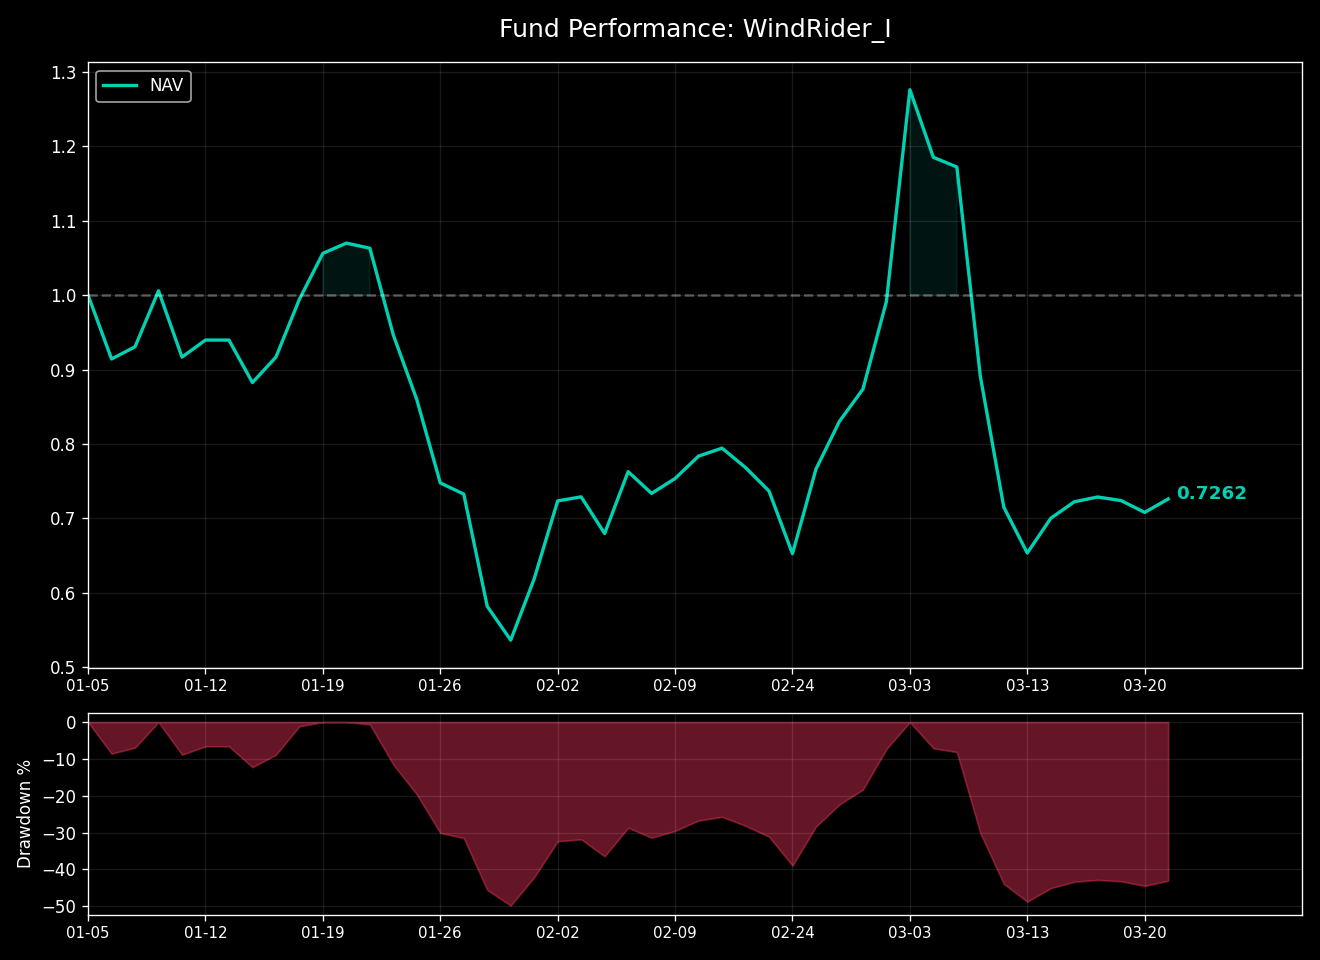
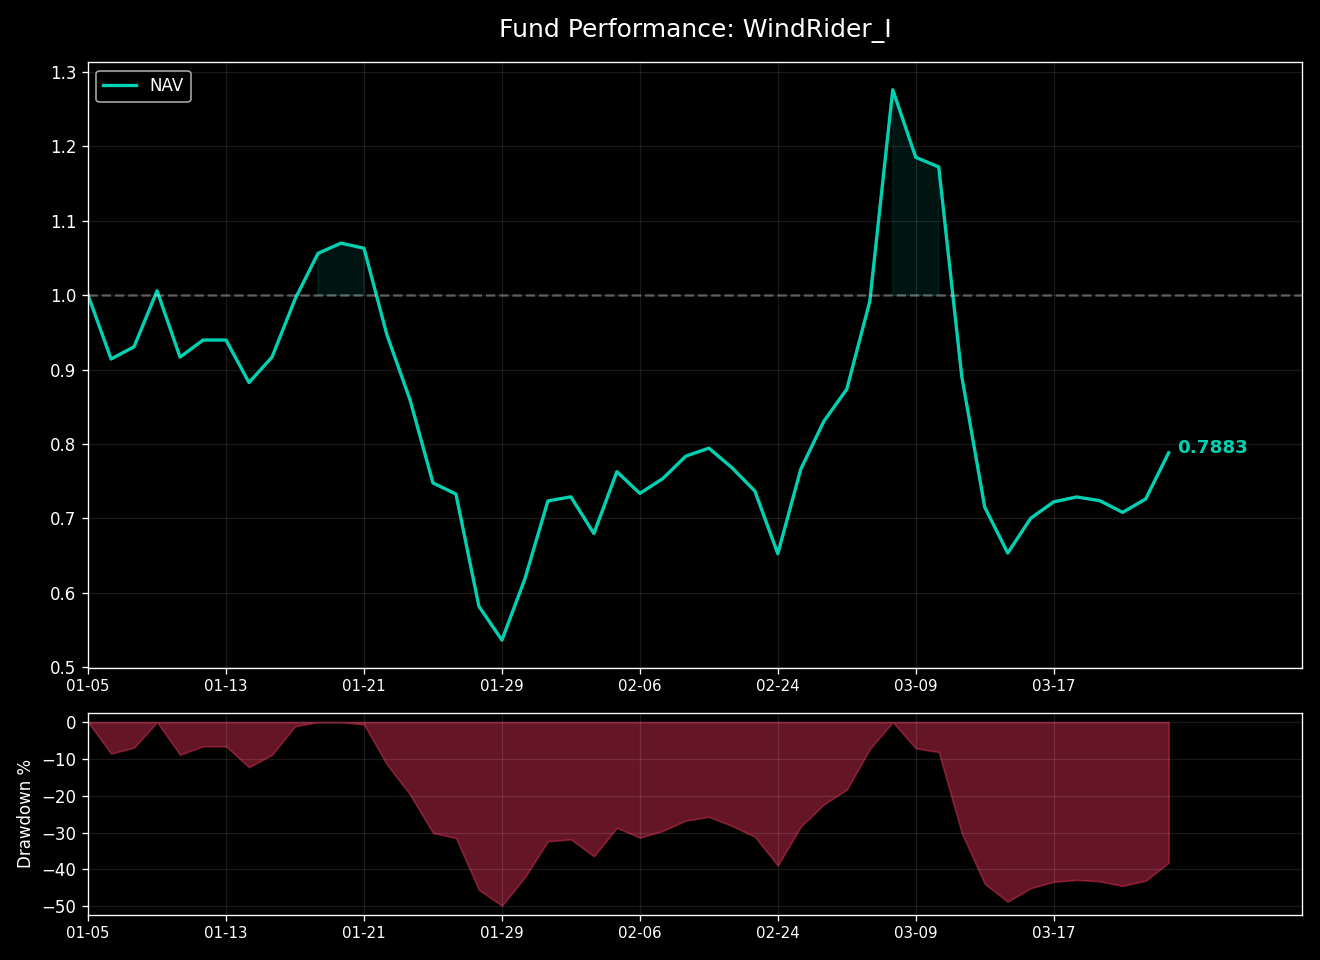
Updated Hugo site content

diff --git a/content/investment/windrider-1.md b/content/investment/windrider-1.md
@@ -1,8 +1,8 @@
 +++
 title = "风舵1号 (WindRider I)  /// 指数"
 summary = "商品期货分形摆动策略，实盘最新净值与核心风险指标。"
-date = 2026-03-23T15:15:03+08:00
-lastmod = 2026-03-23T15:15:03+08:00
+date = 2026-03-24T15:15:03+08:00
+lastmod = 2026-03-24T15:15:03+08:00
 draft = false
 description = "商品期货分形摆动策略实盘"
 +++
@@ -15,24 +15,24 @@ description = "商品期货分形摆动策略实盘"
 
 ### 风舵1号 (WindRider I) &nbsp;&nbsp;<span style="color: #E63946; font-weight: bold;">/</span><span style="color: #F1A73E; font-weight: bold;">/</span><span style="color: #000091; font-weight: bold;">/</span>&nbsp;&nbsp; 指数
 商品期货分形摆动策略实盘<br>
-净值简报 <small>(截至: 2026-03-23)</small>
+净值简报 <small>(截至: 2026-03-24)</small>
 
 |  |  |
 | :--- | :--- |
 | **指数代码：** | WDR1.CTA |
 | **起步日期：** | 2026-01-05 |
-| **最新净值：** | 0.7262 |
-| **今日涨跌：** | +2.54% |
+| **最新净值：** | 0.7883 |
+| **今日涨跌：** | +8.55% |
 
 ===========================
 
 | 核心指标 | |
 | :--- | :--- |
-| **累计涨跌：** | -27.38% |
-| **年化收益：** | -78.05% |
+| **累计涨跌：** | -21.17% |
+| **年化收益：** | -67.15% |
 | **最大回撤：** | -49.85% |
-| **卡玛比率：** | -1.57 |
-| **策略状态：** | 已运行 78 天 |
+| **卡玛比率：** | -1.35 |
+| **策略状态：** | 已运行 79 天 |
 
 ### 净值曲线
 ![风舵1号净值曲线](/images/investment/windrider_nav.png)
